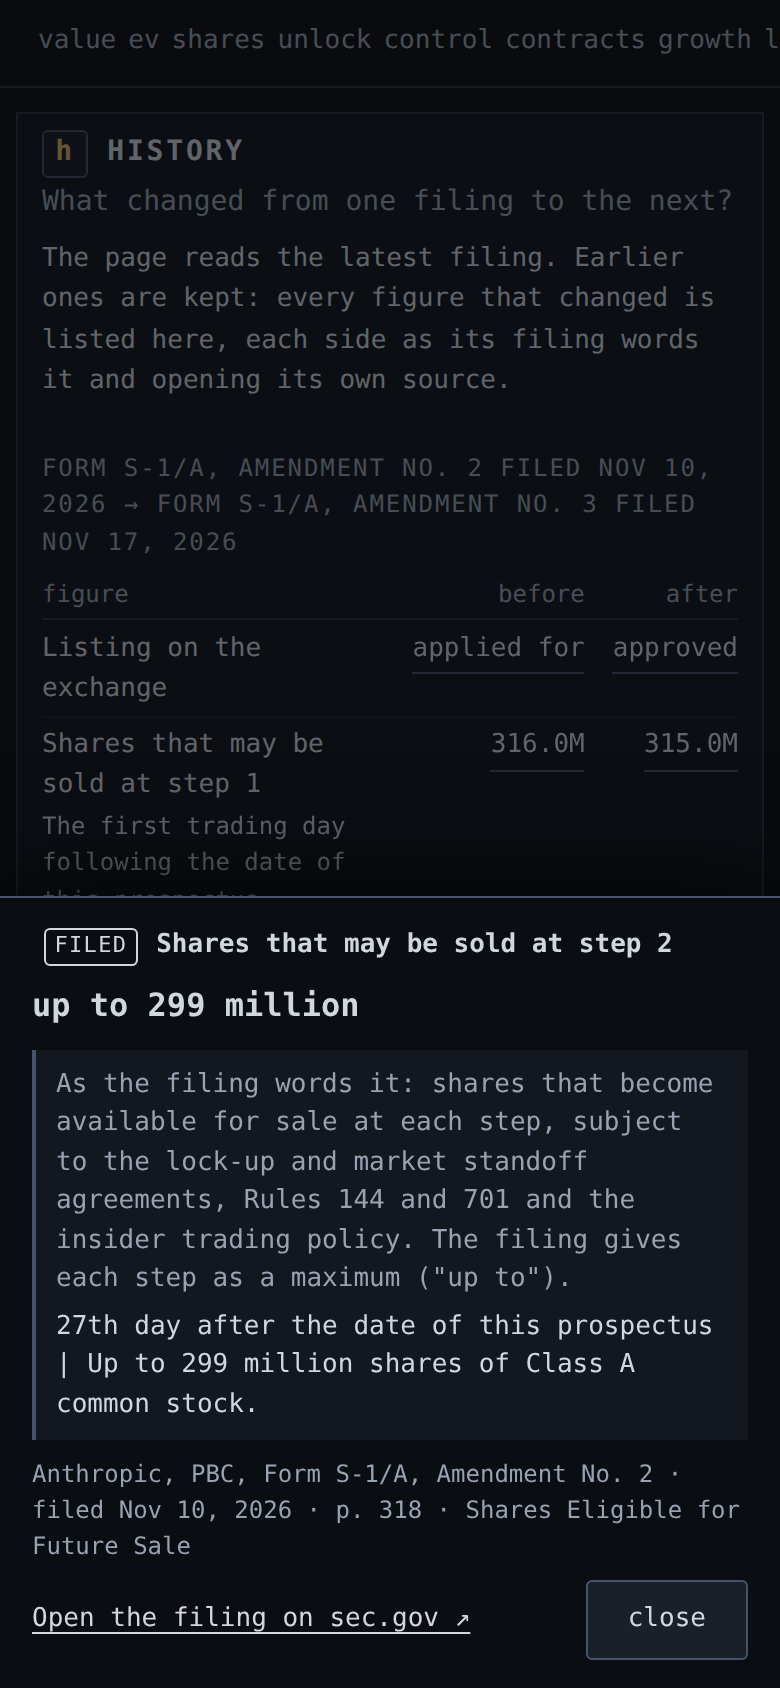
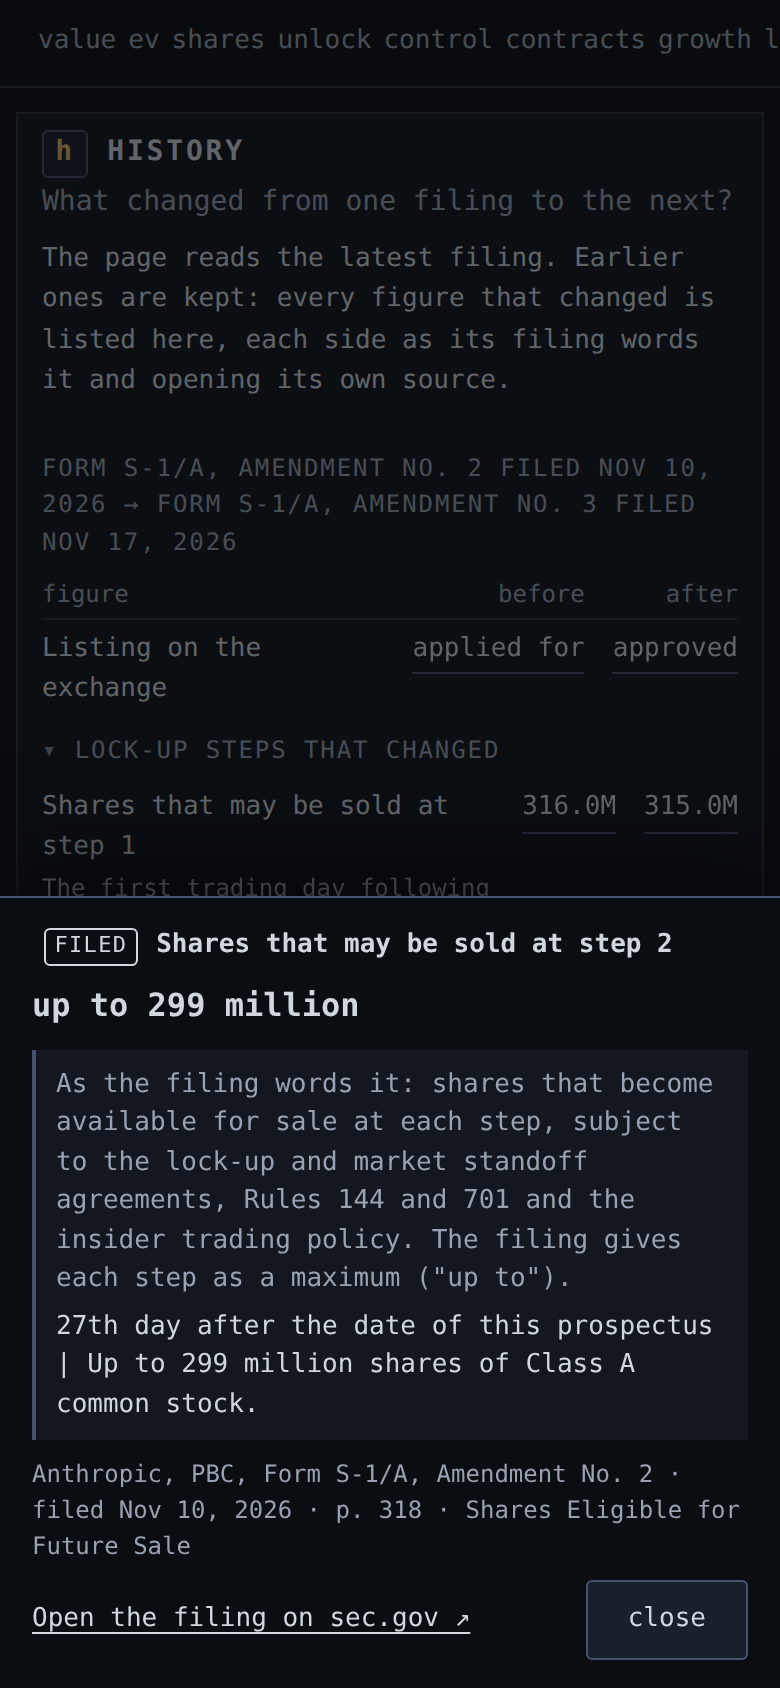
feat(history): fold the changed lock-up steps; release v0.8.0 (Loop 008)
Owner saw the screenshots: "oui, replie les étapes puis déploie".
CHANGELOG, STATUS, D-036, ARCHITECTURE, CLAUDE.md.

Claude-Session: https://claude.ai/code/session_011X21YZWvG5dNXf1iatTdmW

Changed region(s): [[0.0615, 0.4313, 0.8, 0.5545], [0.8308, 0.4313, 0.9538, 0.4929]]

diff --git a/tests/test_versions.py b/tests/test_versions.py
@@ -72,6 +72,11 @@ def test_the_page_says_which_filing_and_what_changed(facts: Facts) -> None:
     assert 'href="#history"><kbd aria-hidden="true">h</kbd>history</a>' in html
     panel = html[html.index('id="history"') : html.index("</section>", html.index('id="history"'))]
     assert panel.count("<tr>") == 22  # a header row and 21 changes
+    # The listing shows at once; the 20 lock-up steps are folded until asked for (owner).
+    main, folded = panel.split('<details class="fold changes-more">')
+    assert "Listing on the exchange" in main
+    assert "unlock" not in main
+    assert folded.count("<tr>") == 20
     assert 'popovertarget="src-s1a2-unlock-02"' in panel
     assert 'popovertarget="src-unlock-02"' in panel
     card = html[html.index('<div popover id="src-s1a2-unlock-02"') :][:3000]

diff --git a/tests/e2e/test_dashboard.py b/tests/e2e/test_dashboard.py
@@ -395,7 +395,8 @@ def test_works_without_javascript(browser: Browser, base_url: str) -> None:
     # The charts are drawn by the server, and every table behind them is open.
     assert page.locator("svg.chart-svg").count() >= 8
     assert page.locator("svg.chart-svg .col").first.is_visible()
-    assert page.locator("details.fold:not([open])").count() == 0
+    # (The lock-up steps in HISTORY are not behind a chart: they start folded, as the owner asked.)
+    assert page.locator("details.fold:not([open]):not(.changes-more)").count() == 0
     assert page.locator('button[data-ref="obligations.total.2029"]').first.is_visible()
     context.close()
 

diff --git a/src/ipo_monitor/versions.py b/src/ipo_monitor/versions.py
@@ -40,6 +40,16 @@ class Step:
     newer: Document
     changes: tuple[Change, ...]
 
+    @property
+    def main(self) -> tuple[Change, ...]:
+        """The changes shown at once."""
+        return tuple(c for c in self.changes if not c.id.startswith("unlock."))
+
+    @property
+    def lockup(self) -> tuple[Change, ...]:
+        """The lock-up steps that changed: many rows, folded on the page."""
+        return tuple(c for c in self.changes if c.id.startswith("unlock."))
+
 
 def history_ref(document_id: str, fact_id: str) -> str:
     """The id an earlier filing's fact takes on the page: `s1a2:unlock.02`."""

diff --git a/src/ipo_monitor/__init__.py b/src/ipo_monitor/__init__.py
@@ -1,3 +1,3 @@
 """Anthropic IPO Watch: an independent dashboard following Anthropic's IPO, every number sourced."""
 
-__version__ = "0.7.1"
+__version__ = "0.8.0"

diff --git a/STATUS.md b/STATUS.md
@@ -1,14 +1,14 @@
 # STATUS · monitor-anthropic-ipo
 
-> Where the project stands, verified. Last reviewed: 2026-11-17 · loop-007 (branding)
+> Where the project stands, verified. Last reviewed: 2026-11-17 · loop-008 (Amendment No. 3, versions)
 
 ## Live
 
 | | |
 | --- | --- |
 | Site | https://antipo.watch (Cloudflare, Worker relaying to Fly.io, since 2026-11-17; the Fly.io address stays as a fallback, see INFRASTRUCTURE.md) |
-| Version | 0.7.1 (tag `v0.7.1`), under the name Anthropic IPO Watch |
-| Data | Anthropic, PBC, Form S-1/A, Amendment No. 2, filed 2026-11-10 |
+| Version | 0.8.0 (tag `v0.8.0`), under the name Anthropic IPO Watch |
+| Data | Anthropic, PBC, Form S-1/A, Amendment No. 3, filed 2026-11-17 (Amendment No. 2 kept in history; the HISTORY panel lists what changed) |
 | Market data | Awaiting listing. The service asks Nasdaq.com every five minutes (Yahoo Finance if it fails); neither has a price for ANT yet. First trade reported for 2026-11-19 |
 | SEC filings | **Watched** since 2026-11-16 23:29 UTC: the service asks EDGAR every ten minutes (latest seen: Form FWP, filed Nov 12, 2026). The owner's contact address is on the machine only |
 | IPO price | Not final: the page shows the filed range, $70 to $78. Pricing reported for 2026-11-18 |
@@ -25,7 +25,7 @@
 - The filings watch on test data: the list of filings, the notice of a newer prospectus, the final price read from a cover and refused in eight cases (another form, a preliminary cover, a blank price, a wrong total, and so on). The contact address appears in no log and on no page (tested).
 - 159 consistency checks pass at every rendering; the service refuses to start if one fails.
 - Keyboard navigation (one key per panel, arrows inside a chart), no JavaScript needed for the core, no serious accessibility issue (axe), on desktop and phone.
-- CI on GitHub: format, lint, strict types, 130 unit tests, 14 real-browser tests, secret scan, CodeQL: green on the released commit.
+- CI on GitHub: format, lint, strict types, 135 unit tests, 14 real-browser tests, secret scan, CodeQL: green on the released commit.
 - Deploy and rollback on the machine: eight deployments on 2026-11-16 and 17, each healthy within seconds.
 - **Seen by the owner on a phone** (2026-11-16, version 0.4.2): asked to find what the company is worth, what it owes and how fast it grows, to check that nothing scrolls sideways and to open a source card, they reported that everything looked fine and made no remark. No time was recorded.
 
@@ -43,7 +43,7 @@
 
 - **The service's own client first talked to EDGAR on 2026-11-16 at 23:29 UTC** and read the same list as below. Before that: A real answer for the registrant was read on 2026-11-16 through a web fetch tool and is replayed by the tests: it has the shape the reader expects (14 filings, the latest five are documents for investors filed on 2026-11-12). The client itself, with the contact address, runs for the first time when the owner has put the address on the machine.
 - The cover of Anthropic's final prospectus does not exist yet. The reader is built on the cover of Amendment No. 2, where the price is blank. If the final cover is laid out differently, the price is not taken and must be recorded by hand: the intended failure.
-- After a final prospectus, the page uses the final price with share counts and cash still taken from Amendment No. 2, until a full extraction reviewed by hand.
+- After a final prospectus, the page uses the final price with share counts and cash still taken from Amendment No. 3, until the final prospectus is saved and extracted (it then moves Amendment No. 3 to history, and HISTORY lists what changed).
 - The About box of the GitHub repository (description, live link) is empty: the agent's GitHub access cannot change repository settings.
 - **No real quote of ANT has been seen yet**: the stock does not trade. The MARKET panel is proven on recorded answers, including invented prices that name themselves as test data.
 - The Nasdaq source was checked before the open and with the market open (2026-11-16), on a long-listed symbol and on a stock listed the Friday before. After the close (16:12 on 2026-11-16) its first figure is a trade of the extended hours and the close comes apart: the page will name both from the next release. At night (20:14) it still says After-Hours and gives the time of the last trade, 19:59. Not seen yet: its answer for a stock that is listed but has not traded yet.

diff --git a/ARCHITECTURE.md b/ARCHITECTURE.md
@@ -42,7 +42,9 @@ title: Components — from the filing to the page
 flowchart TB
   raw["data/raw/sec: saved filing, not in git"]
   extract["extract.py: pages, lines, table rows, anchored patterns"]
-  facts[("data/facts/s1a2.json and press.json")]
+  facts[("data/facts: the latest filing (s1a3.json) and press.json")]
+  history[("data/facts/history: earlier filings, same extractor")]
+  versions["versions.py: what changed from one filing to the next"]
   load["facts.py: load and validate"]
   reconcile["reconcile.py: figures must agree"]
   calc["calc.py: formulas with their inputs"]
@@ -51,6 +53,8 @@ flowchart TB
   render["render.py, figures.py, charts.py and templates: numbers and chart marks, each with its source"]
   web["web.py: page, static files, health"]
   raw --> extract --> facts --> load --> reconcile --> calc --> render --> web
+  extract --> history --> versions
+  load --> versions -->|"earlier values, each with its own source"| render
   market -->|"added to the facts when a quote exists"| calc
   web -->|"asks on a timer"| market
   edgar -->|"a filed price, only when every check passes"| calc
@@ -107,7 +111,8 @@ The page is rendered once, at startup, and served from memory. This is what make
 | Path | Responsibility |
 | --- | --- |
 | `src/ipo_monitor/extract.py` | Read the saved filing, write FILED facts with page and quote |
-| `src/ipo_monitor/facts.py` | Fact model, loading, lookup |
+| `src/ipo_monitor/facts.py` | Fact model, loading, lookup; the current filing and the earlier ones |
+| `src/ipo_monitor/versions.py` | What changed between filings in a row (HISTORY panel) |
 | `src/ipo_monitor/reconcile.py` | Consistency checks that block bad data |
 | `src/ipo_monitor/calc.py` | Every CALC value with formula and inputs |
 | `src/ipo_monitor/fmt.py` | Formatting only |
@@ -116,6 +121,6 @@ The page is rendered once, at startup, and served from memory. This is what make
 | `src/ipo_monitor/market.py` | The market source, the states of the market panel, the quote as MARKET facts, the timer |
 | `src/ipo_monitor/edgar.py` | The SEC's list of filings, what counts as a newer filing, the price on a final cover, the timer |
 | `src/ipo_monitor/web.py`, `config.py`, `log.py` | HTTP service, environment configuration, JSON logs |
-| `data/facts/` | The dataset: `s1a2.json` (extracted), `press.json` (recorded by hand, with links) |
+| `data/facts/` | The dataset: the latest filing, `s1a3.json` (extracted), and `press.json` (recorded by hand, with links); `history/` keeps earlier filings, extracted by the same code |
 | `deploy/` | `deploy.sh` and `start.sh`, run on the machine |
 | `tests/`, `tests/e2e/` | Unit tests; real-browser tests |

diff --git a/DECISIONS.md b/DECISIONS.md
@@ -135,3 +135,6 @@ A frame and a line that climbs in steps, in the page's palette. Nothing from Ant
 
 ## D-035 · Rings for parts of one whole; a centered hero; UNLOCK full width (Loop 007)
 **Owner (2026-11-17):** asked for a light, centered hero under the name Anthropic IPO Watch, a line that explains the keys, a way to open or fold everything, UNLOCK wider, and "not a bar chart, a pie chart" in the overview, naming CONTROL as a good candidate; and to see screenshots before anything is deployed. **Decision (hero, name, rings confirmed; placement proposed).** Rings (donuts) with three slices where the figures are parts of one whole: votes by class in CONTROL, holders after the IPO in the overview. The value in the centre is a sourced number; thin slices are labeled in the table, not on the ring. The overview ring is hidden on phones and narrow windows, so the value at the IPO price stays on the first screen; the same figures are in SHARES. UNLOCK spans both columns. **Alternatives.** A pie without a hole (no room for the centre value); keeping the stacked bar in CONTROL (the owner preferred a pie). **Consequences.** A small hole remains under CONTROL beside the taller CONTRACTS panel on a desktop; shown to the owner, who approved the release.
+
+## D-036 · Earlier filings are kept and compared, never overwritten (Loop 008)
+**Owner (2026-11-17):** asked to move the page to Amendment No. 3, and for versioning: a date at the top and a record of what changed instead of wiping and rewriting; then to fold the lock-up steps. **Decision (versioning and folding confirmed; method proposed).** The latest filing is `data/facts/<id>.json`; earlier ones move to `data/facts/history/`, extracted by the same code. At rendering, each pair of filings in a row is compared fact by fact; a fact whose value or wording differs is listed with both sides, each side added to the page under its own id (`s1a2:unlock.02`) so its card opens its own filing. Facts about the document itself (its date) are left out: the top line says it. When a filing counts a figure another way (the lock-up table split into Class A and Class N), the comparison shows each filing's words instead of hiding the change. **Alternatives.** A changelog written by hand (can drift from the data); showing only the latest figures (the owner's "wipe and rewrite"). **Consequences.** A new filing needs its old wording kept in the extractor; tests reproduce every filing.

diff --git a/CLAUDE.md b/CLAUDE.md
@@ -15,7 +15,7 @@ uv run ruff check .                  # lint
 uv run mypy                          # types, strict
 uv run pytest                        # unit tests
 uv run pytest -m e2e                 # real-browser tests (Playwright, Chromium)
-uv run python -m ipo_monitor.extract "data/raw/sec/<file>.html"   # rebuild data/facts/s1a2.json
+uv run python -m ipo_monitor.extract "data/raw/sec/<file>.html" --id s1a3   # rebuild data/facts/s1a3.json
 ```
 
 ## Conventions
@@ -23,7 +23,11 @@ uv run python -m ipo_monitor.extract "data/raw/sec/<file>.html"   # rebuild data
 - Python 3.12, `src/` layout, package `ipo_monitor`. Line length 100. Strict typing.
 - **Templates never contain a number.** Use `n("id")`. Digits typed in a template must be inside
   an element with `data-label` (period names, form names). `tests/test_web.py` enforces it.
-- **FILED facts come from `extract.py`**, never from hand edits of `data/facts/s1a2.json`.
+- **FILED facts come from `extract.py`**, never from hand edits of `data/facts/*.json`.
+- **A new filing** (Loop 008): move the current fact file to `data/facts/history/`, extract the new
+  one with a new `--id`, and the HISTORY panel lists what changed. Never delete an earlier filing.
+  When its wording changes, teach the extractor the new wording next to the old one; both filings
+  must still extract (tests reproduce both files).
   PRESS facts are recorded by hand in `data/facts/press.json`, with the article opened and quoted.
 - Every calculation lives in `calc.py` with its formula and inputs, and has a test in
   `tests/test_calc.py` checked against arithmetic done by hand.

diff --git a/CHANGELOG.md b/CHANGELOG.md
@@ -4,6 +4,30 @@ All notable changes to this project are documented here. The format follows
 [Keep a Changelog](https://keepachangelog.com/en/1.1.0/) and the project follows
 [Semantic Versioning](https://semver.org/).
 
+## [0.8.0] - 2026-11-17
+
+### Added
+
+- **Versions you can see** (Loop 008): the overview names the filing the figures come from and
+  its date, with a link "what changed"; a **HISTORY** panel (key `h`) lists every figure that
+  differs between two filings in a row, before and after, each opening its own filing's passage.
+  The lock-up steps that changed are folded until asked for. Earlier filings are kept in
+  `data/facts/history/`, extracted by the same code; nothing is overwritten in silence.
+- A fact for the listing: "applied for" in Amendment No. 2, "approved" in Amendment No. 3.
+
+### Changed
+
+- **The page reads Form S-1/A, Amendment No. 3, filed 2026-11-17.** Same price range, shares
+  offered and symbol; Nasdaq approved the listing; the lock-up table now gives Class A, Class N
+  and their total for each step, and UNLOCK shows the total (20 of 23 steps moved by a few
+  million shares).
+- The extractor reads the wordings of both amendments (listing, 2026 Plan reserve, lock-up table)
+  and takes the amendment number from the cover.
+
+### Fixed
+
+- A list of filings older than the filing the page reads no longer shows earlier filings as new.
+
 ## [0.7.1] - 2026-11-17
 
 ### Fixed
